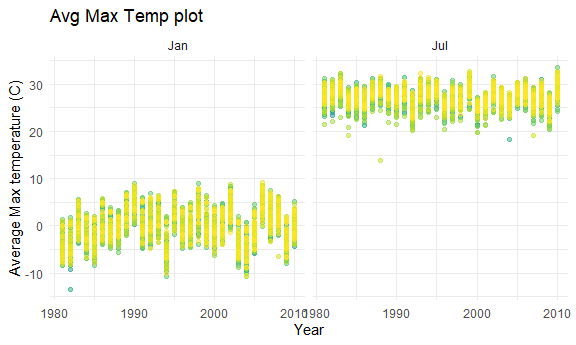
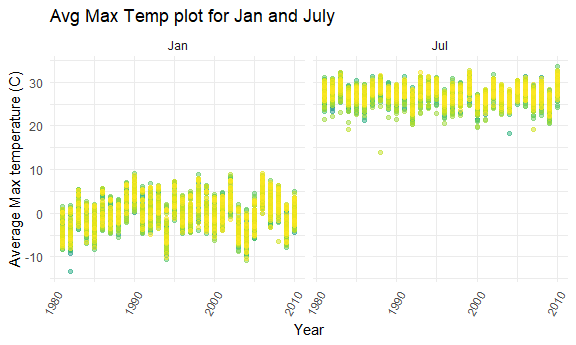
hw3

diff --git a/hw3drafting.md b/hw3drafting.md
@@ -152,6 +152,8 @@ products found in 131209 orders from 131209 distinct users.
 
 ## Problem 2
 
+Loading and tidying the data, adding new variable
+
 ``` r
 acc_ds = read_csv(
     "data/accel_data.csv") %>%
@@ -164,31 +166,103 @@ values_to = "physical_activity") %>%
           wd_vs_wknd = case_when (day == "Monday" ~ "weekday", day == "Tuesday" ~ "weekday", day == "Wednesday" ~ "weekday", day == "Thursday" ~ "weekday", day == "Friday" ~ "weekday", day == "Saturday" ~ "weekend",day == "Sunday" ~ "weekend"))
 ```
 
+|                                                  |        |
+|:-------------------------------------------------|:-------|
+| Name                                             | acc_ds |
+| Number of rows                                   | 50400  |
+| Number of columns                                | 6      |
+| \_\_\_\_\_\_\_\_\_\_\_\_\_\_\_\_\_\_\_\_\_\_\_   |        |
+| Column type frequency:                           |        |
+| character                                        | 2      |
+| numeric                                          | 4      |
+| \_\_\_\_\_\_\_\_\_\_\_\_\_\_\_\_\_\_\_\_\_\_\_\_ |        |
+| Group variables                                  | None   |
+
+Data summary
+
+**Variable type: character**
+
+| skim_variable | n_missing | complete_rate | min | max | empty | n_unique | whitespace |
+|:--------------|----------:|--------------:|----:|----:|------:|---------:|-----------:|
+| day           |         0 |             1 |   6 |   9 |     0 |        7 |          0 |
+| wd_vs_wknd    |         0 |             1 |   7 |   7 |     0 |        2 |          0 |
+
+**Variable type: numeric**
+
+| skim_variable     | n_missing | complete_rate |   mean |     sd |  p0 |    p25 |   p50 |     p75 | p100 | hist  |
+|:------------------|----------:|--------------:|-------:|-------:|----:|-------:|------:|--------:|-----:|:------|
+| week              |         0 |             1 |   3.00 |   1.41 |   1 |   2.00 |   3.0 |    4.00 |    5 | ▇▇▇▇▇ |
+| day_id            |         0 |             1 |  18.00 |  10.10 |   1 |   9.00 |  18.0 |   27.00 |   35 | ▇▇▇▇▇ |
+| minute_act        |         0 |             1 | 720.50 | 415.70 |   1 | 360.75 | 720.5 | 1080.25 | 1440 | ▇▇▇▇▇ |
+| physical_activity |         0 |             1 | 267.04 | 443.16 |   1 |   1.00 |  74.0 |  364.00 | 8982 | ▇▁▁▁▁ |
+
 Describing the dataset: - The total number of observations/rows are
 **50400** and the total number of variables/columns are **6** - The key
 variables in this data set are **week, day_id, day, minute_act,
 physical_activity, wd_vs_wknd**
 
+Aggregating across minutes to create a total activity variable for each
+day, and creating a table showing these totals
+
 ``` r
 agg_acc_ds = acc_ds %>%
-  select (everything()) %>%
   group_by(week,day) %>%
   summarise (total_activity = sum(physical_activity)) %>%
   pivot_wider(names_from = day,
     values_from = total_activity) %>%
 select ("week","Monday","Tuesday","Wednesday","Thursday","Friday","Saturday","Sunday")
+  
+agg_acc_ds %>%
+  knitr::kable()
 ```
+
+| week |    Monday |  Tuesday | Wednesday | Thursday |   Friday | Saturday | Sunday |
+|-----:|----------:|---------:|----------:|---------:|---------:|---------:|-------:|
+|    1 |  78828.07 | 307094.2 |    340115 | 355923.6 | 480542.6 |   376254 | 631105 |
+|    2 | 295431.00 | 423245.0 |    440962 | 474048.0 | 568839.0 |   607175 | 422018 |
+|    3 | 685910.00 | 381507.0 |    468869 | 371230.0 | 467420.0 |   382928 | 467052 |
+|    4 | 409450.00 | 319568.0 |    434460 | 340291.0 | 154049.0 |     1440 | 260617 |
+|    5 | 389080.00 | 367824.0 |    445366 | 549658.0 | 620860.0 |     1440 | 138421 |
+
+-   **according to this, the physical activity is increasing throughout
+    the weekdays from Monday through Friday, is the least on Saturday,
+    and increases again on Sundays.**
 
 ``` r
 plot_acc_ds = acc_ds %>%
   mutate (hour = minute_act/60)
 
-
 ggplot(plot_acc_ds, aes(x = hour, y = physical_activity, color = day)) + 
-  geom_point() + geom_line()
+  geom_point (alpha = 0.5) + geom_line()
 ```
 
 <img src="hw3drafting_files/figure-gfm/making plot-1.png" width="90%" />
+
+``` r
+  theme(legend.position = "none")+
+  labs(
+    title = "physical activity by hour for each day",
+    x = "Hour",
+    y = "Physical activity")
+```
+
+    ## List of 4
+    ##  $ legend.position: chr "none"
+    ##  $ x              : chr "Hour"
+    ##  $ y              : chr "Physical activity"
+    ##  $ title          : chr "physical activity by hour for each day"
+    ##  - attr(*, "class")= chr [1:2] "theme" "gg"
+    ##  - attr(*, "complete")= logi FALSE
+    ##  - attr(*, "validate")= logi TRUE
+
+-   **According to this, the physical activity increases everyday after
+    5:00 am and is maintained throughout the day till around 19:00 hrs.
+    It peaks between about 19:00 to 22:00 hrs and then gradually
+    subsides. The period from \~ 23:00 to 5:00 hrs in the morning is the
+    lowest (implying the person sleeps during that time). The activity
+    around 19:00 hrs is the highest for Wednesday.The activity between
+    around 19:00 through 22:00 hrs is the highest for Fridays. Daytime
+    activity \~10:00 - \~12:00 is high for Sunday.**
 
 ## Problem 3
 
@@ -285,8 +359,8 @@ Data summary
 | tmax          |   1134358 |          0.56 |   13.98 |  11.14 |  -38.9 |    5.0 |   15.0 |   23.3 |    60 | ▁▂▇▆▁ |
 | tmin          |   1134420 |          0.56 |    3.03 |  10.40 |  -59.4 |   -3.9 |    3.3 |   11.1 |    60 | ▁▁▇▂▁ |
 
--   The most commonly observed values for snowfall are 0. It states that
-    there was no snowfall on most number of days.
+-   The most commonly observed values for snowfall are **0**. It states
+    that **there was no snowfall on most number of days.**
 
 making 2-panel plots for avg max temperature:
 
@@ -297,10 +371,10 @@ ny_noaa_clean_plot1 =  ny_noaa_clean %>%
   filter (month %in% c ("Jan", "Jul")) %>%
   ggplot(aes(x = year, y = tmax_avg, color = id)) + 
   geom_point(alpha = 0.5) + 
-  theme(legend.position = "none")+
+  theme(legend.position = "none", axis.text.x = element_text(angle = 60, hjust = 1))+
   facet_grid(.~ month)+
   labs(
-    title = "Avg Max Temp plot",
+    title = "Avg Max Temp plot for Jan and July",
     x = "Year",
     y = "Average Max temperature (C)")
 
@@ -309,15 +383,24 @@ ny_noaa_clean_plot1
 
 <img src="hw3drafting_files/figure-gfm/unnamed-chunk-8-1.png" width="90%" />
 
--   
+-   According to this, it can be seen that **the average maximum
+    temperature was lower overall in January as compared to July for the
+    years 1981-2010**. There is an **outlier for the month of July
+    \~1988 when the maximum temperature was \~ 14 degree Celsius**.
+    Also, **the range of average maximum temperatures is wider for
+    January than the range of average maximum temperatures for July**.
 
-making 2-panel plots for
+making 2-panel plots for tmax tmin and snowfall
 
 ``` r
 tmax_tmin = ny_noaa_clean %>%
-  ggplot(aes(x = tmax, y = tmin, fill = id)) + 
-  geom_boxplot () + 
-  theme (legend.position = "none")
+  ggplot(aes(x = tmax, y = tmin)) + 
+  geom_hex () + 
+  theme (legend.position = "right")+
+  labs (
+    title = "tmax vs tmin",
+    x = "tmax (C)",
+    y = "tmin (C)")
 
 tmax_tmin
 ```
@@ -326,18 +409,25 @@ tmax_tmin
 
 ``` r
 snowfall_year = ny_noaa_clean %>%
+  group_by (year) %>%
   filter (snow %in% 1.0:99.0) %>%
-  ggplot(aes(x = year, y = snow, fill = id)) + 
-  geom_boxplot () + 
-  theme(legend.position = "none")
+  ggplot(aes(x = snow, y = as.factor(year))) + 
+  geom_density_ridges() + 
+  theme(legend.position = "none")+
+  labs(
+    title = "Snowfall Distribution by Years",
+    x = "Snowfall (mm)",
+    y = "Year")
 
 snowfall_year
 ```
 
-<img src="hw3drafting_files/figure-gfm/unnamed-chunk-10-1.png" width="90%" />
+<img src="hw3drafting_files/figure-gfm/unnamed-chunk-9-2.png" width="90%" />
 
 ``` r
 tmax_tmin + snowfall_year
 ```
 
-<img src="hw3drafting_files/figure-gfm/unnamed-chunk-11-1.png" width="90%" />
+<img src="hw3drafting_files/figure-gfm/unnamed-chunk-9-3.png" width="90%" />
+
+-   According
